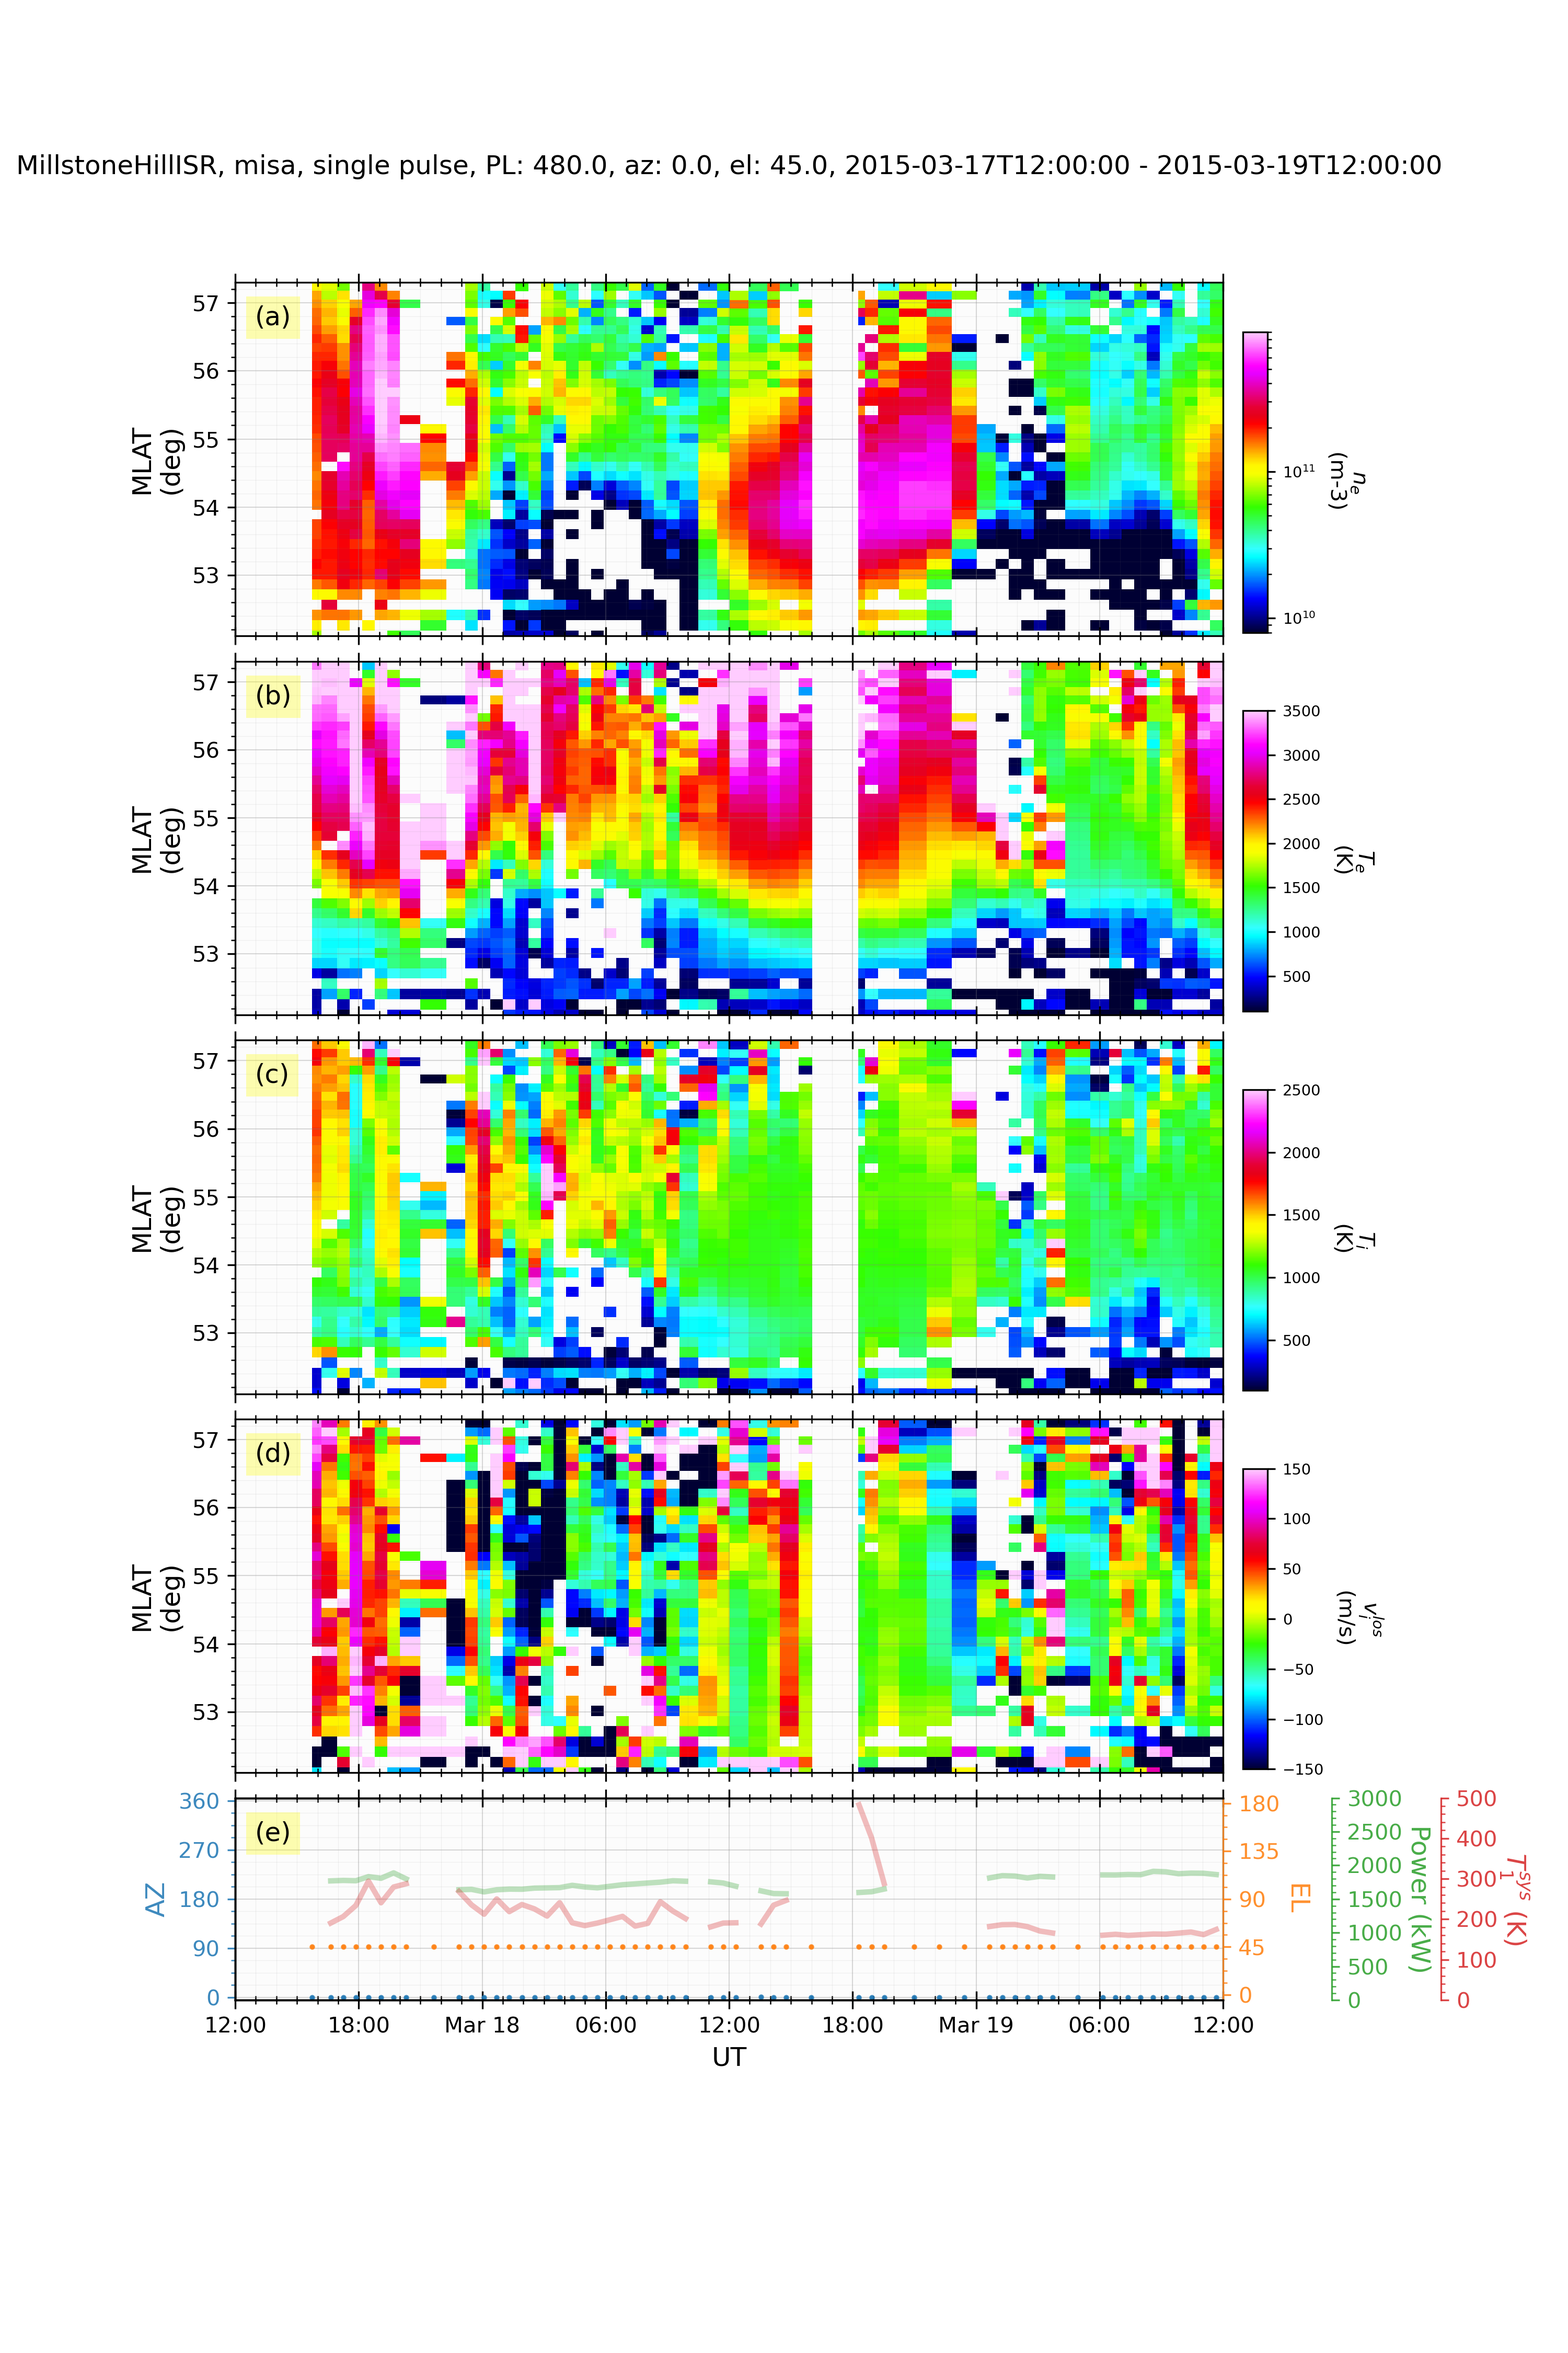
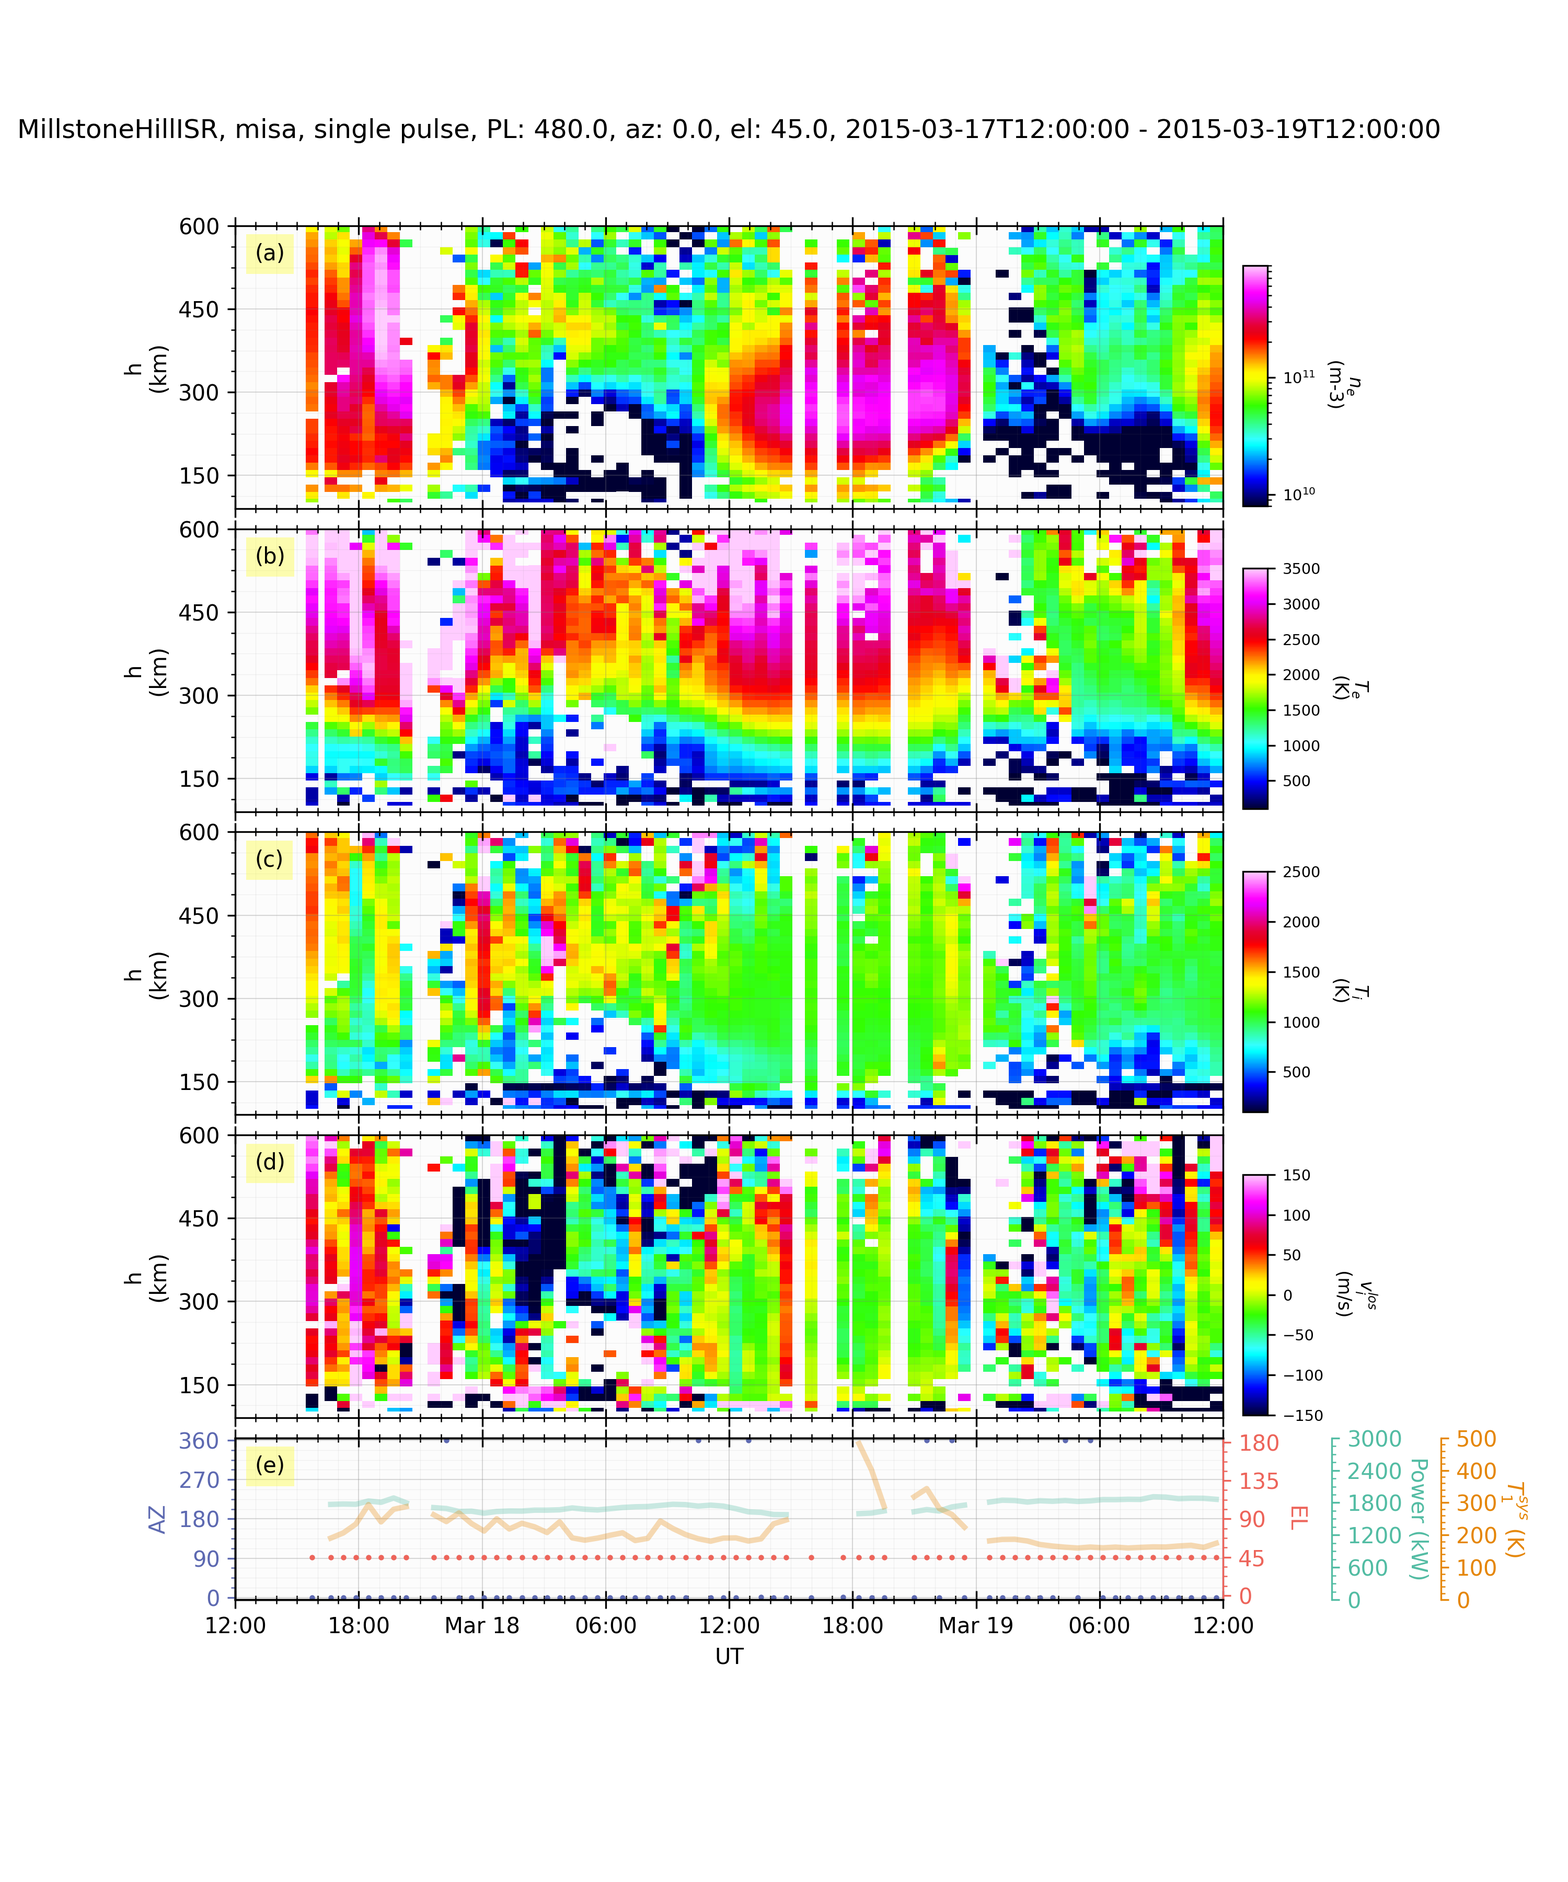
update example

diff --git a/geospacelab/express/millstonehill_dashboard.py b/geospacelab/express/millstonehill_dashboard.py
@@ -26,7 +26,7 @@ class MillstoneHillISRDashboard(TSDashboard):
         self.az = None
         self.el = None
         figure = kwargs.pop('figure', 'new')
-        figure_config = kwargs.pop('figure_config', {})
+        figure_config = kwargs.pop('figure_config', {'figsize': (10, 10)})
         super().__init__(dt_fr=dt_fr, dt_to=dt_to, figure=figure, figure_config=figure_config)
         ds_1 = self.dock(datasource_contents=['madrigal', 'isr', 'millstonehill', 'basic'],
                          data_file_type=data_file_type, antenna=antenna, pulse_code=pulse_code,
@@ -143,9 +143,17 @@ class MillstoneHillISRDashboard(TSDashboard):
         T_e = self.assign_variable('T_e')
         v_i = self.assign_variable('v_i_los')
         az = self.assign_variable('AZ')
+        az.visual.axis[1].label = '@v.label'
+        az.visual.axis[1].unit = '@v.unit_label'
         el = self.assign_variable('EL')
+        el.visual.axis[1].label = '@v.label'
+        el.visual.axis[1].unit = '@v.unit_label'
         ptx = self.assign_variable('P_Tx')
+        ptx.visual.axis[1].label = '@v.label'
+        ptx.visual.axis[1].unit = '@v.unit_label'
         tsys = self.assign_variable('T_SYS')
+        tsys.visual.axis[1].label = '@v.label'
+        tsys.visual.axis[1].unit = '@v.unit_label'
 
         if depend_MLAT:
             n_e.visual.axis[1].data = '@d.AACGM_LAT.value'

diff --git a/geospacelab/express/eiscat_dashboard.py b/geospacelab/express/eiscat_dashboard.py
@@ -20,7 +20,7 @@ class EISCATDashboard(TSDashboard):
         kwargs.setdefault('load_mode', 'AUTO')
 
         figure = kwargs.pop('figure', 'new')
-        figure_config = kwargs.pop('figure_config', {})
+        figure_config = kwargs.pop('figure_config', {'figsize': (10, 10)})
         super().__init__(dt_fr=dt_fr, dt_to=dt_to, figure=figure, figure_config=figure_config)
         self.dock(datasource_contents=['madrigal', 'isr', 'eiscat'], **kwargs)
         self.host_dataset.load_data(load_mode=kwargs['load_mode'])
@@ -121,9 +121,17 @@ class EISCATDashboard(TSDashboard):
         T_e = self.assign_variable('T_e')
         v_i = self.assign_variable('v_i_los')
         az = self.assign_variable('AZ')
+        az.visual.axis[1].label = '@v.label'
+        az.visual.axis[1].unit = '@v.unit_label'
         el = self.assign_variable('EL')
+        el.visual.axis[1].label = '@v.label'
+        el.visual.axis[1].unit = '@v.unit_label'
         ptx = self.assign_variable('P_Tx')
+        ptx.visual.axis[1].label = '@v.label'
+        ptx.visual.axis[1].unit = '@v.unit_label'
         tsys = self.assign_variable('T_SYS_1')
+        tsys.visual.axis[1].label = '@v.label'
+        tsys.visual.axis[1].unit = '@v.unit_label'
         self.list_assigned_variables()
         self.list_datasets()
         self.check_beams()

diff --git a/geospacelab/datahub/sources/madrigal/isr/millstonehill/basic/__init__.py b/geospacelab/datahub/sources/madrigal/isr/millstonehill/basic/__init__.py
@@ -200,8 +200,9 @@ class Dataset(datahub.DatasetSourced):
         if field_aligned:
             inds = np.where(((np.abs(az - 188.6) <= error_az) & (np.abs(el-77.7) <= error_el)))[0]
             if not list(inds):
-                mylog.StreamLogger.info("No field-aligned beams found!")
-                return
+                mylog.StreamLogger.error("No field-aligned beams found!")
+                raise ValueError
+
         elif isinstance(az_el_pairs, list):
             inds = []
             for az1, el1 in az_el_pairs:
@@ -210,8 +211,8 @@ class Dataset(datahub.DatasetSourced):
                 ind_2 = np.where(((np.abs(az - 360. - az1) <= error_az) & (np.abs(el-el1) <= error_el)))[0] 
                 ind_1 = np.append(ind_1, ind_2)
                 if not list(ind_1):
-                    mylog.StreamLogger.warning("Cannot find the beam with az={:f} and el={:f}".format(az1, el1))
-                    continue
+                    mylog.StreamLogger.error("Cannot find the beam with az={:f} and el={:f}".format(az1, el1))
+                    raise ValueError
                 inds.extend(ind_1)
             inds = np.sort(np.unique(np.array(inds))).tolist()
         else:

diff --git a/examples/demo_millstonehill_isr.py b/examples/demo_millstonehill_isr.py
@@ -18,8 +18,8 @@ from geospacelab.express.millstonehill_dashboard import MillstoneHillISRDashboar
 def example_basic_quicklook():
 
     # Set the starting and stopping times
-    dt_fr = datetime.datetime.strptime('20160314' + '1900', '%Y%m%d%H%M')
-    dt_to = datetime.datetime.strptime('20160315' + '0100', '%Y%m%d%H%M')
+    dt_fr = datetime.datetime.strptime('20150317' + '1500', '%Y%m%d%H%M')
+    dt_to = datetime.datetime.strptime('20150319' + '2000', '%Y%m%d%H%M')
 
     # Set the radar parameters
     antenna = 'misa'    # antenna name: 'zenith', or 'misa'
@@ -37,7 +37,7 @@ def example_basic_quicklook():
     )
     # Select one or multiple beams shown in the quicklook plot.
     # if commented, all beams will shown following the time sequence.
-    dashboard.select_beams(az_el_pairs=[[13.5, 45]])
+    dashboard.select_beams(az_el_pairs=[[0, 45]])
     # Make quicklook plot
     dashboard.quicklook(depend_MLAT=False)
     # Save the figure

diff --git a/examples/manuscript_example_3_ isr.py b/examples/manuscript_example_3_ isr.py
@@ -33,10 +33,10 @@ dashboard = MillstoneHillISRDashboard(
     )
 # Select one or multiple beams shown in the quicklook plot.
 # if commented, all beams will shown following the time sequence.
-dashboard.select_beams(az_el_pairs=[[0, 45]], error_az=5., error_el=2.) # beams with az +/- error_az and el +/- error_el 
+dashboard.select_beams(az_el_pairs=[[0, 45]], error_az=5., error_el=2.) # beams with az +/- error_az and el +/- error_el
 # Make quicklook plot
 dashboard.quicklook(depend_MLAT=False)
 # Save the figure
-dashboard.save_figure(file_name="manuscript_example_3_mho_basic_quicklook_1")
+dashboard.save_figure(file_name="manuscript_example_3_mho_basic_quicklook_2")
 # Display the figure in the screen
 dashboard.show()

diff --git a/geospacelab/datahub/sources/madrigal/isr/eiscat/__init__.py b/geospacelab/datahub/sources/madrigal/isr/eiscat/__init__.py
@@ -196,8 +196,8 @@ class Dataset(datahub.DatasetSourced):
                 ind_2 = np.where(((np.abs(az - 360. - az1) <= error_az) & (np.abs(el-el1) <= error_el)))[0] 
                 ind_1 = np.append(ind_1, ind_2)
                 if not list(ind_1):
-                    mylog.StreamLogger.warning("Cannot find the beam with az={:f} and el={:f}".format(az1, el1))
-                    continue
+                    mylog.StreamLogger.error("Cannot find the beam with az={:f} and el={:f}".format(az1, el1))
+                    raise ValueError
                 inds.extend(ind_1)
             inds = np.sort(np.unique(np.array(inds))).tolist()
         else:

diff --git a/geospacelab/datahub/__variable_base__.py b/geospacelab/datahub/__variable_base__.py
@@ -238,7 +238,7 @@ class VariableBase(object):
     def __init__(
             self, value=None, error=None, data_type=None,
             name='', fullname='', label='', group='',
-            unit=None, unit_label=None, quantity=None,
+            unit='', unit_label=None, quantity=None,
             variable_type='scalar',
             ndim=None, depends=None, dataset=None, visual=None,
             **kwargs):
